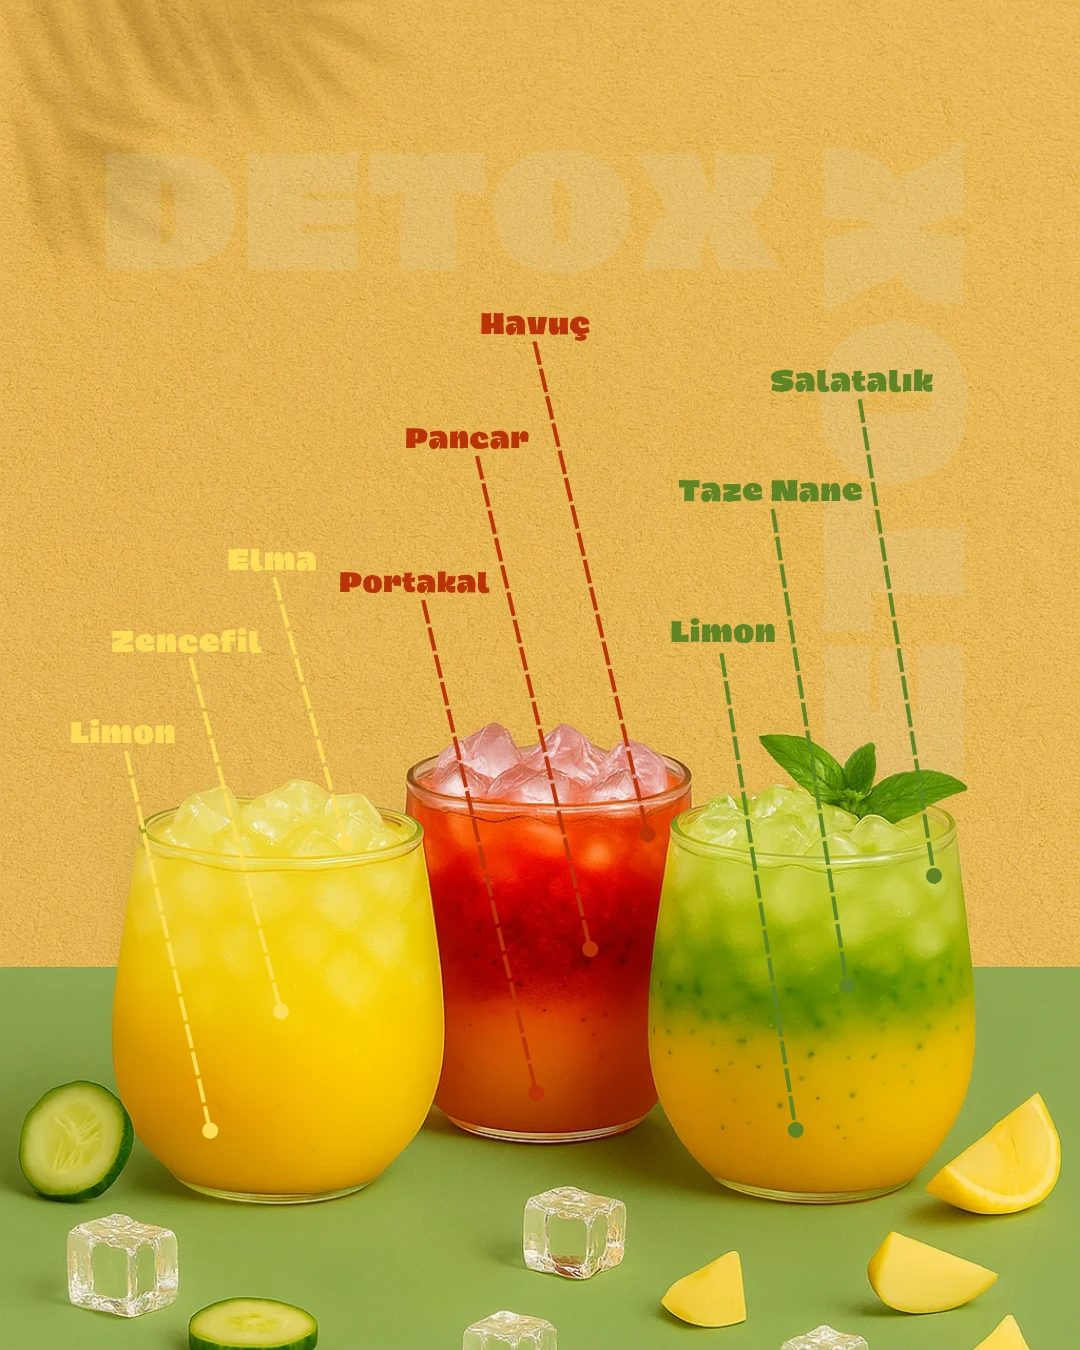
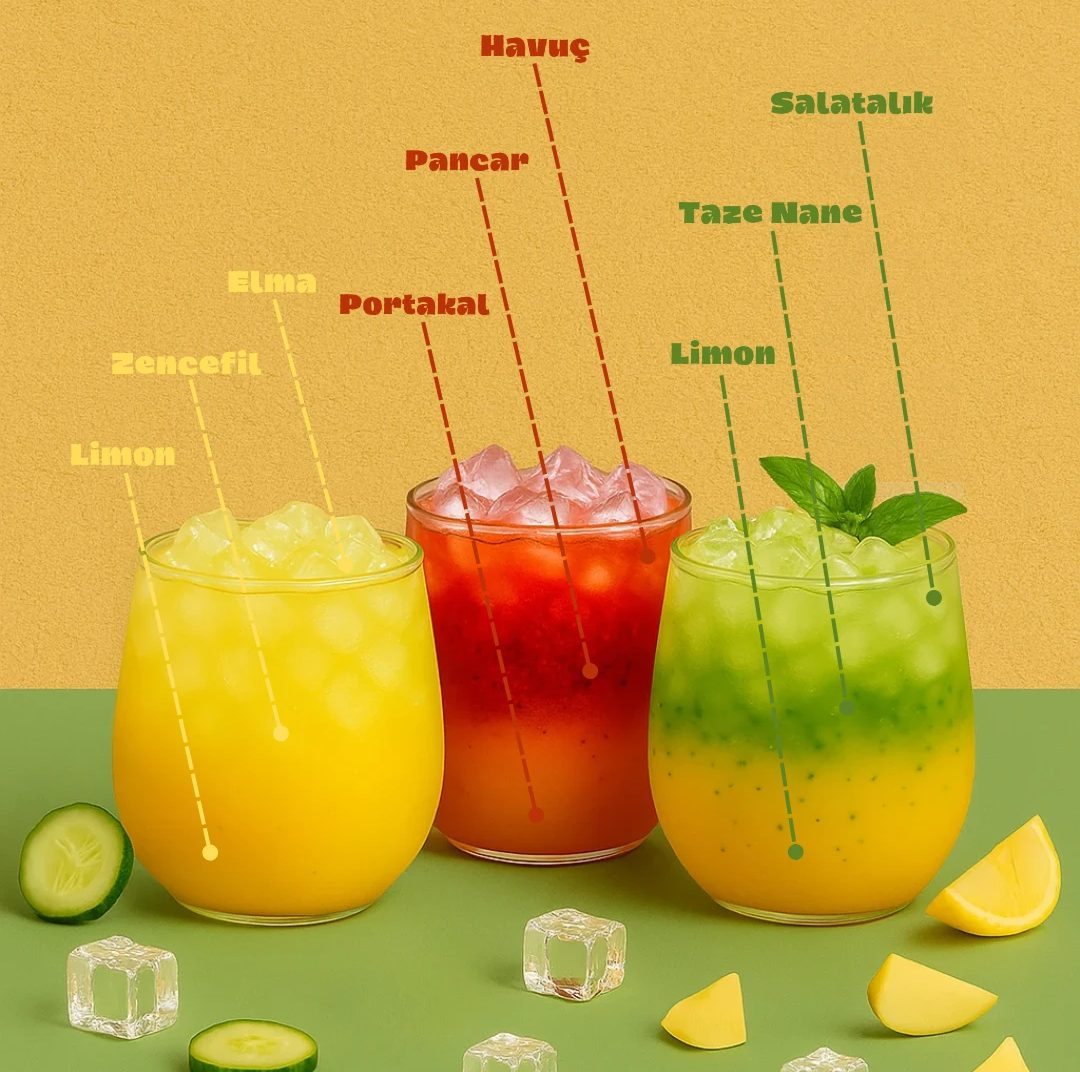
Blend detox photo into the section background
Section uses the photo's own wall (mustard) and table (green) colors;
a full-width table band lines up with the photo's floor line and the
photo edges are feathered, so the three glasses and their ingredient
lines sit directly on the page instead of in a card. Faint ghost
lettering removed from the photo and the top cropped.

Claude-Session: https://claude.ai/code/session_01MUPKUajfgvY4AfoTN8yMJx

diff --git a/src/components/Detox.tsx b/src/components/Detox.tsx
@@ -7,15 +7,26 @@ const DETOXES = [
   { no: "No.3", color: "bg-[#6E9A2E]", ingredients: ["Salatalık", "Limon", "Taze nane"] },
 ];
 
+// Fotoğrafın kenarlarını bölüm zeminine eritir
+const FEATHER = {
+  WebkitMaskImage:
+    "linear-gradient(to right, transparent, #000 14%, #000 86%, transparent), linear-gradient(to bottom, transparent, #000 3%)",
+  WebkitMaskComposite: "source-in",
+  maskImage:
+    "linear-gradient(to right, transparent, #000 14%, #000 86%, transparent), linear-gradient(to bottom, transparent, #000 3%)",
+  maskComposite: "intersect",
+} as const;
+
+// Bölümün zemini fotoğrafın duvarı (hardal) ve masası (yeşil): bardaklar sayfanın üstünde duruyormuş gibi görünür
 const Detox = () => (
-  <section id="detox" className="overflow-hidden bg-mustard py-20 text-ink lg:py-32">
-    <div className="mx-auto grid max-w-7xl gap-12 px-5 lg:grid-cols-12 lg:items-center lg:gap-10 lg:px-10">
-      <Reveal className="lg:col-span-6 lg:col-start-7 lg:row-start-1">
-        <p className="flex items-center gap-3 text-xs font-semibold uppercase tracking-[0.3em] text-leaf">
+  <section id="detox" className="relative isolate overflow-hidden bg-mustard pt-20 text-ink lg:pt-28">
+    <div className="mx-auto grid max-w-7xl px-5 lg:grid-cols-12 lg:gap-10 lg:px-10">
+      <Reveal className="lg:col-span-5 lg:col-start-8 lg:row-start-1 lg:self-start lg:pb-[19vw] xl:pb-[250px]">
+        <p className="flex items-center gap-3 text-xs font-semibold uppercase tracking-[0.3em] text-ink/70">
           <span className="h-px w-8 bg-current" aria-hidden="true" />
           Detox
         </p>
-        <h2 className="mt-5 font-serif text-[clamp(52px,14vw,72px)] font-semibold leading-[0.9] tracking-[-0.01em] lg:text-[clamp(72px,7vw,112px)]">
+        <h2 className="mt-5 font-serif text-[clamp(52px,14vw,72px)] font-semibold leading-[0.9] tracking-[-0.01em] lg:text-[clamp(72px,7vw,108px)]">
           Biri <span className="italic text-leaf">detox</span>
           <br />
           mu dedi?
@@ -24,36 +35,35 @@ const Detox = () => (
           Üç renk, üç ayrı ferahlık. Buz gibi gelir; tatlıdan önce de iyi gider, sonra da.
         </p>
 
-        <ol className="mt-10 border-t border-ink/20">
+        <ol className="mt-9 border-t border-ink/20">
           {DETOXES.map((d) => (
-            <li key={d.no} className="flex items-baseline gap-5 border-b border-ink/20 py-5 lg:py-6">
+            <li key={d.no} className="flex items-baseline gap-5 border-b border-ink/20 py-4 lg:py-5">
               <span className="flex w-16 shrink-0 items-center gap-2 text-sm font-semibold tabular-nums">
                 <span className={`h-2.5 w-2.5 rounded-full ${d.color}`} aria-hidden="true" />
                 {d.no}
               </span>
-              <span className="font-serif text-[23px] font-semibold leading-tight sm:text-[28px] lg:text-[34px]">
+              <span className="font-serif text-[23px] font-semibold leading-tight sm:text-[28px] lg:text-[30px]">
                 {d.ingredients.join(" · ")}
               </span>
             </li>
           ))}
         </ol>
-
-        <p className="mt-6 text-ink/70">
-          Matcha sevenlere: tonik, limon ya da meyve suyuyla <span className="font-semibold text-ink">dört farklı matcha detox</span>.
-        </p>
       </Reveal>
 
-      <Reveal className="order-first lg:order-none lg:col-span-5 lg:row-start-1" delay={120}>
-        <figure className="relative mx-auto max-w-md lg:max-w-none">
-          <img
-            src="/media/detox.jpg"
-            alt="Üç detox içeceği ve malzemeleri: elma, limon, zencefil; havuç, pancar, portakal; salatalık, limon, taze nane"
-            className="aspect-[4/5] w-full rounded-[1.5rem] lg:rounded-[2rem] object-cover shadow-[0_40px_80px_-30px_rgba(46,42,32,0.55)] lg:-rotate-2"
-            loading="lazy"
-            decoding="async"
-          />
-        </figure>
-      </Reveal>
+      {/* Masa: fotoğraftaki yeşil zemin bölüm boyunca uzar (fotoğraf yüksekliğinin %35,8'si) */}
+      <div className="relative mt-10 lg:col-span-7 lg:row-start-1 lg:mt-0 lg:self-end">
+        <div aria-hidden="true" className="absolute bottom-0 left-[-100vw] right-[-100vw] -z-10 h-[35.8%] bg-floor" />
+        <img
+          src="/media/detox.jpg"
+          alt="Üç detox içeceği ve malzemeleri: elma, limon, zencefil; havuç, pancar, portakal; salatalık, limon, taze nane"
+          width={1080}
+          height={1072}
+          className="mx-auto block h-auto w-full max-w-[560px] lg:max-w-none"
+          style={FEATHER}
+          loading="lazy"
+          decoding="async"
+        />
+      </div>
     </div>
   </section>
 );

diff --git a/tailwind.config.js b/tailwind.config.js
@@ -22,7 +22,8 @@ export default {
         "on-brick": "#FDEEE4",
         "on-brick-muted": "#F6CDBF",
         // Detox görselinden
-        mustard: "#E9B85A",
+        mustard: "#E5B553",
+        floor: "#93A84A",
         leaf: "#5E7F2A",
       },
       fontFamily: {
